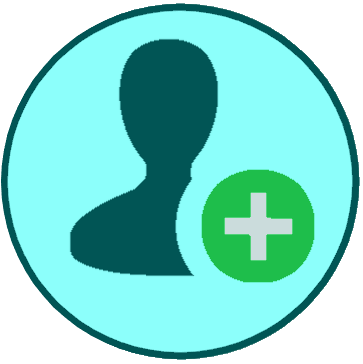
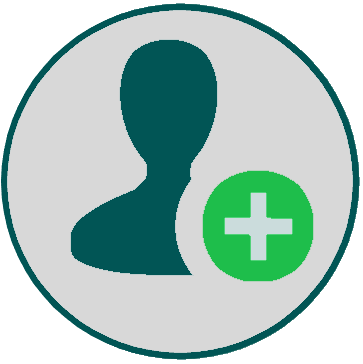
Refonte graphique

diff --git a/listUsers.css b/listUsers.css
@@ -7,7 +7,7 @@ input[type=image]:focus {outline:0;}
 
 body{
 	margin: 0;	
-	background: #a0d8ef;
+	background: #f4f4f4;
 }
 
 /***************Section Fieldset********************/
@@ -18,6 +18,7 @@ fieldset{
     overflow-y: auto;
     padding-right: 1vw;
     padding-left: 1vw;
+    box-shadow: 3px 1px 2px 1px #d8d8d8;
 }
 
 legend{
@@ -74,6 +75,8 @@ input::-webkit-outer-spin-button {
 #divIcon input{
     width: 4rem;
     height: 4rem;
+    border-radius: 50%;
+    box-shadow: 4px 4px 2px -2px #919191;
 }
 
 
@@ -92,7 +95,8 @@ input::-webkit-outer-spin-button {
 	border: ridge 5px teal;
 	margin: auto;
 	margin-top: 1vh;
-	background-color: springGreen;
+    background-color: springGreen;
+    box-shadow: 4px 4px 2px -2px #919191;
 }
 
 
@@ -106,13 +110,14 @@ input::-webkit-outer-spin-button {
 
 /********************Section Div Ligne User*********************/
 .divLine{
-    height: 1.8rem;
+    height: 2rem;
     line-height: 1.8rem;
     border-radius: 5px;
-    background-color: azure;
+    background-color: white;
     margin-bottom: 0.5vh;
     padding-left: 1vw;
     overflow: hidden; /*Evite le decalage des icones bin et Edit à chaque ligne*/
+    box-shadow: 3px 4px 4px -1px #7F7F7F;
 }
 
 /*****************Section Span Options*************************/
@@ -140,7 +145,8 @@ input::-webkit-outer-spin-button {
     border: ridge 5px teal;
     margin: auto;
     margin-top: 1vh;
-	background-color: lightslategray;
+    background-color: lightslategray;
+    box-shadow: 4px 4px 2px -2px #919191;
 }
 
 
@@ -149,7 +155,7 @@ input::-webkit-outer-spin-button {
 	width: 20vw;
 	height: auto;
 	padding-top: 3vw;
-	padding-left: 1vw;
+    padding-left: 1vw;
 }
 
 /****************Section Vicipo**********************/
@@ -179,6 +185,7 @@ input::-webkit-outer-spin-button {
     z-index:1;
     background-color: white;
     text-align: center;
+    box-shadow: 3px 4px 4px -1px #7F7F7F;
 }
 
 .btPopUp{
@@ -190,6 +197,7 @@ input::-webkit-outer-spin-button {
     border: none;
     width: 30%;
     height: 5vh;
+    box-shadow: 4px 4px 2px -2px #919191;
 }
 
 

diff --git a/index.css b/index.css
@@ -6,7 +6,7 @@ input[type=image]:focus {outline:0;}
 /************************************/
 body{
 	margin: 0;	
-	background: #a0d8ef;
+	background: #f4f4f4;
 }
 
 /***************Section Fieldset********************/
@@ -14,11 +14,11 @@ body{
 	border-radius: 5px;
 	border: 1px solid teal;
     text-transform: capitalize;
-    min-height: 50vh;
     max-height: 87vh;
     overflow-y: auto;
     padding-right: 1vw;
     padding-left: 1vw;
+    box-shadow: 3px 1px 2px 1px #d8d8d8;
 }
 
 legend{
@@ -37,8 +37,11 @@ legend{
 }
 
 #divIcon input{
+    margin: 0;
     width: 4rem;
     height: 4rem;
+    border-radius: 50%;
+    box-shadow: 4px 4px 2px -2px #919191;
 }
 
 /***********Section Div No User/No Attestation********************/
@@ -56,7 +59,8 @@ legend{
 	border: ridge 5px teal;
 	margin: auto;
 	margin-top: 1vh;
-	background-color:springGreen;
+    background-color:springGreen;
+    box-shadow: 4px 4px 2px -2px #919191;
 }
 
 
@@ -73,10 +77,11 @@ legend{
 /********************Section Div Ligne Attestation*********************/
 .divLine{
     border-radius: 5px;
-    background-color: azure;
+    background-color: white;
     margin-bottom: 0.5vh;
     font-size: smaller;
     display: flex;
+    box-shadow: 3px 4px 4px -1px #7F7F7F;
 }
 
 
@@ -127,6 +132,7 @@ legend{
     z-index:1;
     background-color: white;
     text-align: center;
+    box-shadow: 3px 4px 4px -1px #7F7F7F;
 }
 
 .btPopUp{
@@ -138,6 +144,7 @@ legend{
     border: none;
     width: 30%;
     height: 5vh;
+    box-shadow: 4px 4px 2px -2px #919191;
 }
 
 /*****************Attestation Ecrite********************************/
@@ -183,6 +190,7 @@ h2{
 .case img{
     width: 1.5rem;
     margin-right: 0.4rem;
+    box-shadow: 3px 4px 2px -2px #919191;
 }
 
 .case{

diff --git a/newAttest.css b/newAttest.css
@@ -7,7 +7,7 @@ input[type=image]:focus {outline:0;}
 /**********************************************/
 body{
 	margin: 0;	
-	background: #a0d8ef;
+	background: #f4f4f4;
 }
 
 
@@ -18,6 +18,7 @@ h1{
 	font-style: italic;
 	color: teal;
 	font-size: 1.5rem;
+	text-shadow: 2px 1px 2px #919191;
 }
 
 /***********************Section Fieldset********************/
@@ -27,7 +28,8 @@ fieldset{
 	display: block;
     padding-top: 0;
     text-transform: capitalize;
-    overflow-y: auto;
+	overflow-y: auto;
+	box-shadow: 3px 1px 2px 1px #d8d8d8;
 }
 
 legend{
@@ -44,9 +46,10 @@ legend{
 /********************Section Div Ligne User*********************/
 .divLine{
     border-radius: 5px;
-    background-color: azure;
+    background-color: white;
 	margin-bottom: 0.5vh;
 	display: flex;
+	box-shadow: 3px 4px 4px -1px #7F7F7F;
 }
 /********Section CheckBox***********************/
 .check{
@@ -106,6 +109,7 @@ label{
 	margin: auto;
 	margin-top: 1vh;
 	background-color: lightslategray;
+	box-shadow: 4px 4px 2px -2px #919191;
 }
 
 
@@ -131,7 +135,9 @@ label{
 
 #divIcon input{
     width: 4rem;
-    height: 4rem;
+	height: 4rem;
+	border-radius: 50%;
+    box-shadow: 4px 4px 2px -2px #919191;
 }
 
 

diff --git a/newUser.css b/newUser.css
@@ -8,7 +8,7 @@ input[type=image]:focus {outline:0;}
 
 body{
 	margin: 0;	
-	background: #a0d8ef;
+	background: #f4f4f4;
 }
 
 h1{
@@ -18,6 +18,7 @@ h1{
 	font-style: italic;
 	color: teal;
 	font-size: 1.5rem;
+	text-shadow: 2px 1px 2px #919191;
 }
 
 /***************Section Fieldset********************/
@@ -27,6 +28,7 @@ fieldset{
 	display: block;
 	padding-top: 0;
 	text-transform: capitalize;
+	box-shadow: 3px 1px 2px 1px #d8d8d8;
 }
 
 legend{
@@ -48,7 +50,7 @@ form input{
 
 	border-radius: 5px;
 	border:none;
-	height: 1.3rem;
+	height: 1.5rem;
 	padding-left: 0.5rem;
 	text-transform: capitalize;
 }
@@ -89,6 +91,7 @@ input::-webkit-outer-spin-button {
 	margin: auto;
 	margin-top: 1vh;
 	background-color: lightslategray;
+	box-shadow: 4px 4px 2px -2px #919191;
 }
 
 
@@ -113,7 +116,9 @@ input::-webkit-outer-spin-button {
 #divIcon input
 {
     width: 4rem;
-    height: auto;
+	height: 4rem;
+	border-radius: 50%;
+    box-shadow: 4px 4px 2px -2px #919191;
 }
 
 
